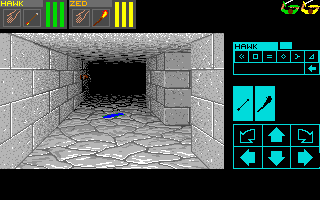
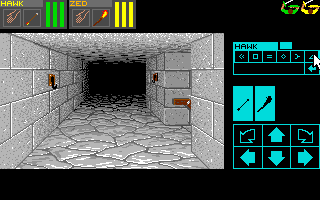
2026-10-09 v 16

diff --git a/Assets/Editor/ViewportLayoutEditor.cs b/Assets/Editor/ViewportLayoutEditor.cs
@@ -440,6 +440,14 @@ public class ViewportLayoutEditor : EditorWindow
   private bool stairsD0LMirror;
   private bool stairsD0LEnabled = true;
 
+  // S2 stairs side sprite: ViewEdit calibration only, no rendering yet.
+  // Independent calibration of the same D0L sprite one step farther away.
+  private const string StairsD0LFarPrefsPrefix = "DM.ViewEdit.StairsDownD0LFar.";
+  private int stairsD0LFarX = 174;
+  private int stairsD0LFarTopY = 96;
+  private bool stairsD0LFarMirror;
+  private bool stairsD0LFarEnabled = true;
+
 
 
   // ViewEdit controls for the down-stairs overlay. These are intentionally
@@ -2866,6 +2874,8 @@ public class ViewportLayoutEditor : EditorWindow
       }
 
       EditorGUILayout.EndHorizontal();
+
+
       ClampSearchFamilyToEnabledPieces();
       HandlePieceSearchKeyboard();
 
@@ -17099,6 +17109,9 @@ private static void HandleGameViewPointerDown(
     // Near-side D0L stair detail, drawn above dungeon geometry but below ornaments.
     BlitStairsDownD0LIntoPreview(pixels);
 
+    // Calibrate the D0L sprite at the farther right-side reference pose.
+    BlitStairsDownD0LFarIntoPreview(pixels);
+
     // All floor features and wall ornaments are composed only after the full
     // map/wall/door image pass has finished. This keeps feature artwork out of
     // the geometry painter order and gives it one explicit post-map layer.
@@ -20939,6 +20952,10 @@ private static void HandleGameViewPointerDown(
     stairsD0LTopY = EditorPrefs.GetInt(StairsD0LPrefsPrefix + "Y", 106);
     stairsD0LMirror = EditorPrefs.GetBool(StairsD0LPrefsPrefix + "Mirror", false);
     stairsD0LEnabled = EditorPrefs.GetBool(StairsD0LPrefsPrefix + "Enabled", true);
+    stairsD0LFarX = EditorPrefs.GetInt(StairsD0LFarPrefsPrefix + "X", 174);
+    stairsD0LFarTopY = EditorPrefs.GetInt(StairsD0LFarPrefsPrefix + "Y", 96);
+    stairsD0LFarMirror = EditorPrefs.GetBool(StairsD0LFarPrefsPrefix + "Mirror", false);
+    stairsD0LFarEnabled = EditorPrefs.GetBool(StairsD0LFarPrefsPrefix + "Enabled", true);
     stairsS1X = EditorPrefs.GetInt(StairsS1PrefsPrefix + "X", StairsDownRightD1X);
     stairsS1TopY = EditorPrefs.GetInt(StairsS1PrefsPrefix + "Y", StairsDownRightD1DisplayY);
     stairsS1Mirror = EditorPrefs.GetBool(StairsS1PrefsPrefix + "Mirror", false);
@@ -22077,6 +22094,23 @@ private static void HandleGameViewPointerDown(
         displayName,
         featureStyle,
         GUILayout.Width(ornamentCaptionColumnWidth));
+
+    // Hook toggles use the placement visibility key checked by the renderer.
+    if (IsHookOrnament(ornament))
+    {
+      string hookVisibilityKey = MakePreviewFeatureKey(
+          "Ornament", ornament.x, ornament.y, ornament.wall);
+      bool wasEnabled = IsPreviewFeatureEnabled(hookVisibilityKey);
+      bool nowEnabled = EditorGUILayout.ToggleLeft(
+          "Enabled", wasEnabled, GUILayout.Width(76f));
+      if (nowEnabled != wasEnabled)
+      {
+        SetPreviewFeatureEnabled(hookVisibilityKey, nowEnabled);
+        RefreshEditModePreview();
+        RepaintGameViews();
+        Repaint();
+      }
+    }
 
     EditorGUIUtility.labelWidth =
         EditorStyles.label.CalcSize(new GUIContent("X")).x;
@@ -24058,6 +24092,11 @@ private static void HandleGameViewPointerDown(
       }
     }
 
+    // Separate far D0L calibration for the verified (4,14) South view.
+    // The near D0L controls for (4,15) South are preserved unchanged.
+    if (IsStairsDownD0LFarCalibrationPose())
+      DrawStairsDownD0LFarCalibrationRow();
+
     // D0L side artwork is visible when the stairs-down tile is immediately
     // to the player's right (the calibrated 4,15 South view). Use the same
     // relative map sampler as the wall renderer; do not require the player
@@ -24117,6 +24156,98 @@ private static void HandleGameViewPointerDown(
 
     BlitPieceIntoPreview(pixels, sprite, stairsD0LX,
         DisplayYToUnityY(stairsD0LTopY, sprite.height), stairsD0LMirror);
+  }
+
+  // Temporary calibration only. Do not generalize this diagonal side view
+  // until the original and Unity images agree at the reference position.
+  private bool IsStairsDownD0LFarCalibrationPose()
+  {
+    if (previewX != 4 || previewY != 14
+        || previewFacing != DungeonFacing.South)
+      return false;
+    EnsurePreviewMiniMapLoaded();
+    if (previewMiniMap == null)
+      return false;
+    Viewport17Cell cell = SampleViewport17Cell(1, 1);
+    return cell.IsInside && cell.IsStairsDown;
+  }
+
+  private void BlitStairsDownD0LFarIntoPreview(Color32[] pixels)
+  {
+    if (pixels == null || !stairsD0LFarEnabled
+        || !IsStairsDownD0LFarCalibrationPose())
+      return;
+
+    const string assetPath = "Assets/Art/Walls/Stairs/Stairs_Side_D0L_16x13.png";
+    Texture2D sprite = AssetDatabase.LoadAssetAtPath<Texture2D>(assetPath);
+    if (sprite == null)
+    {
+      Debug.LogError("STAIRS D0L FAR: missing asset: " + assetPath);
+      return;
+    }
+    if (sprite.width != 16 || sprite.height != 13)
+    {
+      Debug.LogError("STAIRS D0L FAR: expected 16x13, got "
+          + sprite.width + "x" + sprite.height + " at " + assetPath);
+      return;
+    }
+    if (!sprite.isReadable)
+    {
+      Debug.LogError("STAIRS D0L FAR: enable Read/Write on " + assetPath);
+      return;
+    }
+
+    BlitPieceIntoPreview(pixels, sprite, stairsD0LFarX,
+        DisplayYToUnityY(stairsD0LFarTopY, sprite.height), stairsD0LFarMirror);
+  }
+
+  private void DrawStairsDownD0LFarCalibrationRow()
+  {
+    EditorGUILayout.BeginHorizontal();
+    float oldLabelWidth = EditorGUIUtility.labelWidth;
+    GUIStyle style = new GUIStyle(EditorStyles.boldLabel);
+    style.normal.textColor = Color.magenta;
+    style.hover.textColor = Color.magenta;
+    style.focused.textColor = Color.magenta;
+    const string caption = "Stairs_Side_D0L / Far";
+    GUILayout.Label(caption, style,
+        GUILayout.Width(style.CalcSize(new GUIContent(caption)).x));
+    GUILayout.Space(8f);
+    float enabledWidth = EditorStyles.label.CalcSize(new GUIContent("Enabled")).x;
+    EditorGUIUtility.labelWidth = enabledWidth;
+    bool enabled = DrawMouseOnlyToggle(
+        "Enabled", stairsD0LFarEnabled, stairsD0LFarEnabled,
+        GUILayout.Width(enabledWidth + 18f), GUILayout.ExpandWidth(false));
+    EditorGUIUtility.labelWidth = EditorStyles.label.CalcSize(new GUIContent("X")).x;
+    int x = stairsD0LFarX;
+    bool xChanged = DrawIntStepperInline("X", ref x, snap, false, true, 24f, 24f);
+    EditorGUIUtility.labelWidth = EditorStyles.label.CalcSize(new GUIContent("Y")).x;
+    int y = stairsD0LFarTopY;
+    bool yChanged = DrawIntStepperInline("Y", ref y, snap, false, true, 24f, 24f);
+    GUILayout.Space(6f);
+    bool mirror = EditorGUILayout.ToggleLeft("Mirror", stairsD0LFarMirror, GUILayout.Width(66f));
+    bool apply = GUILayout.Button("Apply", GUILayout.Width(58f), GUILayout.ExpandWidth(false));
+    NoteContentRight();
+    EditorGUIUtility.labelWidth = oldLabelWidth;
+    EditorGUILayout.EndHorizontal();
+    if (enabled != stairsD0LFarEnabled || (xChanged && x != stairsD0LFarX)
+        || (yChanged && y != stairsD0LFarTopY) || mirror != stairsD0LFarMirror)
+    {
+      stairsD0LFarEnabled = enabled;
+      stairsD0LFarX = x;
+      stairsD0LFarTopY = y;
+      stairsD0LFarMirror = mirror;
+      RefreshEditModePreview();
+      RepaintGameViews();
+      Repaint();
+    }
+    if (apply)
+    {
+      EditorPrefs.SetInt(StairsD0LFarPrefsPrefix + "X", stairsD0LFarX);
+      EditorPrefs.SetInt(StairsD0LFarPrefsPrefix + "Y", stairsD0LFarTopY);
+      EditorPrefs.SetBool(StairsD0LFarPrefsPrefix + "Mirror", stairsD0LFarMirror);
+      EditorPrefs.SetBool(StairsD0LFarPrefsPrefix + "Enabled", stairsD0LFarEnabled);
+    }
   }
 
   private void DrawStairsDownD0LCalibrationRow()
